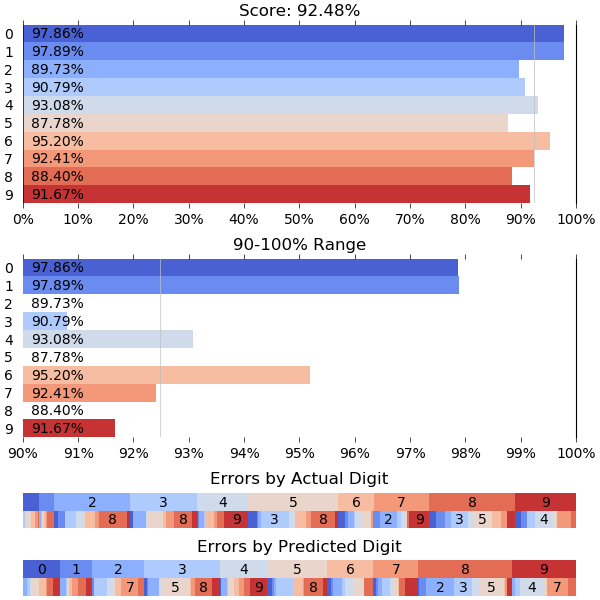
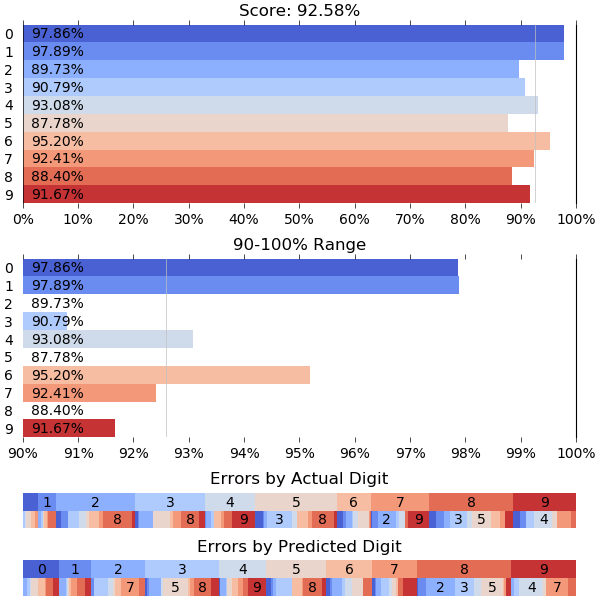
change metrics used, use np only

diff --git a/mnist/mnist.py b/mnist/mnist.py
@@ -4,7 +4,6 @@ import math
 import os
 
 import numpy as np
-from sklearn.metrics import confusion_matrix
 import matplotlib.pyplot as plt
 
 from . import idx
@@ -53,22 +52,20 @@ def preprocess_channel(X):
 def score_predictions(y_true, y_pred):
     """Scores the predictions with a single metric and more detailed metrics.
 
-    The single metric is accuracy as the macro-average of recall.
+    The single metric is accuracy.
 
     Args:
         y_true: true labels as a (m,) numpy array
         y_pred: predicted labels as a (m,) numpy array
 
     Returns:
-        score: accuracy as a macro-average of recall
+        score: overall accuracy
         acc: accuracy/recall for each digit as a (10,) numpy array
-        cm: row-normalized confusion matrix as a (10, 10) numpy array
+        cm: confusion matrix as a (10, 10) numpy array
     """
-    cm = confusion_matrix(y_true, y_pred)
-    cm_norm = np.sum(cm, axis=1, keepdims=True)
-    cm = cm / cm_norm
-    acc = cm[_DIGITS, _DIGITS]
-    score = np.mean(acc)
+    cm = _confusion_matrix(y_true, y_pred)
+    acc = cm[_DIGITS, _DIGITS] / np.sum(cm, axis=1)
+    score = np.mean(y_true == y_pred)
     return score, acc, cm
 
 def to_pred(Y_prob):
@@ -182,21 +179,31 @@ def show_predictions(
 # Data loading
 ####
 
-_X_TRAIN_PATH = "data/train-images-idx3-ubyte.gz"
-_X_TEST_PATH = "data/t10k-images-idx3-ubyte.gz"
-_Y_TRAIN_PATH = "data/train-labels-idx1-ubyte.gz"
-_Y_TEST_PATH = "data/t10k-labels-idx1-ubyte.gz"
+_X_TRAIN_PATH = "train-images-idx3-ubyte.gz"
+_X_TEST_PATH = "t10k-images-idx3-ubyte.gz"
+_Y_TRAIN_PATH = "train-labels-idx1-ubyte.gz"
+_Y_TEST_PATH = "t10k-labels-idx1-ubyte.gz"
 
-def _load_idx(path):
+def _load_idx(filename):
     """Loads a single IDX file."""
     dirname = os.path.dirname(__file__)
-    filename = os.path.join(dirname, path)
+    filename = os.path.join(dirname, "data", filename)
     with gzip.open(filename, "rb") as f:
         return idx.read_array(f)
 
 ####
 # Data processing
 ####
+
+def _confusion_matrix(y_true, y_pred):
+    """Generates a confusion matrix."""
+    cm = np.zeros((10, 10))
+    for true_digit in _DIGITS:
+        y_pred_digit = y_pred[y_true == true_digit]
+        digits, counts = np.unique(y_pred_digit, return_counts=True)
+        for digit, count in zip(digits, counts):
+            cm[true_digit, digit] = count
+    return cm
 
 def _filter_images(X, y, digits):
     """Filters the images based on the digit."""

diff --git a/mnist/mnist_test.py b/mnist/mnist_test.py
@@ -1,4 +1,5 @@
 import unittest
+import numpy.testing as npt
 from . import mnist
 
 import os
@@ -37,20 +38,15 @@ class MnistTestCase(unittest.TestCase):
     def testScorePredictions(self):
         _, y_true, y_pred, _ = self._loadPredictions()
         score, acc, cm = mnist.score_predictions(y_true, y_pred)
-
-        score_diff = np.abs(score - 0.9248)
-        self.assertLess(score_diff, 5e-5)
-
+        self.assertEqual(score, 0.9258)
         expected_acc = np.array([
             0.9786, 0.9789, 0.8973, 0.9079, 0.9308,
             0.8778, 0.9520, 0.9241, 0.8840, 0.9167,
         ])
-        acc_diff = np.abs(acc - expected_acc)
-        self.assertLess(np.max(acc_diff), 5e-5)
-
-        cm_sum = np.sum(cm, axis=1)
-        cm_diff = np.abs(cm_sum - 1)
-        self.assertLess(np.max(cm_diff), 1e-8)
+        npt.assert_almost_equal(acc, expected_acc, decimal=4)
+        self.assertEqual(cm[0, 6], 5)
+        self.assertEqual(cm[2, 2], 926)
+        self.assertEqual(cm[9, 8], 7)
 
     def testToPred(self):
         Y_prob = np.array([
@@ -58,16 +54,17 @@ class MnistTestCase(unittest.TestCase):
             [0.01, 0.05, 0.01, 0.01, 0.05, 0.01, 0.80, 0.05, 0.01, 0.05],
         ])
         y_pred = mnist.to_pred(Y_prob)
-        self.assertTrue((y_pred == np.array([1, 6])).all())
+        expected_y_pred = np.array([1, 6])
+        npt.assert_equal(y_pred, expected_y_pred)
 
     def testToOneHotProb(self):
         y_pred = np.array([2, 8])
         Y_prob = mnist.to_onehot_prob(y_pred)
-        Y_prob_expected = np.array([
-            [0.0, 0.0, 1.0, 0.0, 0.0, 0.0, 0.0, 0.0, 0.0, 0.0],
-            [0.0, 0.0, 0.0, 0.0, 0.0, 0.0, 0.0, 0.0, 1.0, 0.0],
+        expected_Y_prob = np.array([
+            [0., 0., 1., 0., 0., 0., 0., 0., 0., 0.],
+            [0., 0., 0., 0., 0., 0., 0., 0., 1., 0.],
         ])
-        self.assertTrue((Y_prob == Y_prob_expected).all())
+        npt.assert_equal(Y_prob, expected_Y_prob)
 
     ####
     # Visualizations
